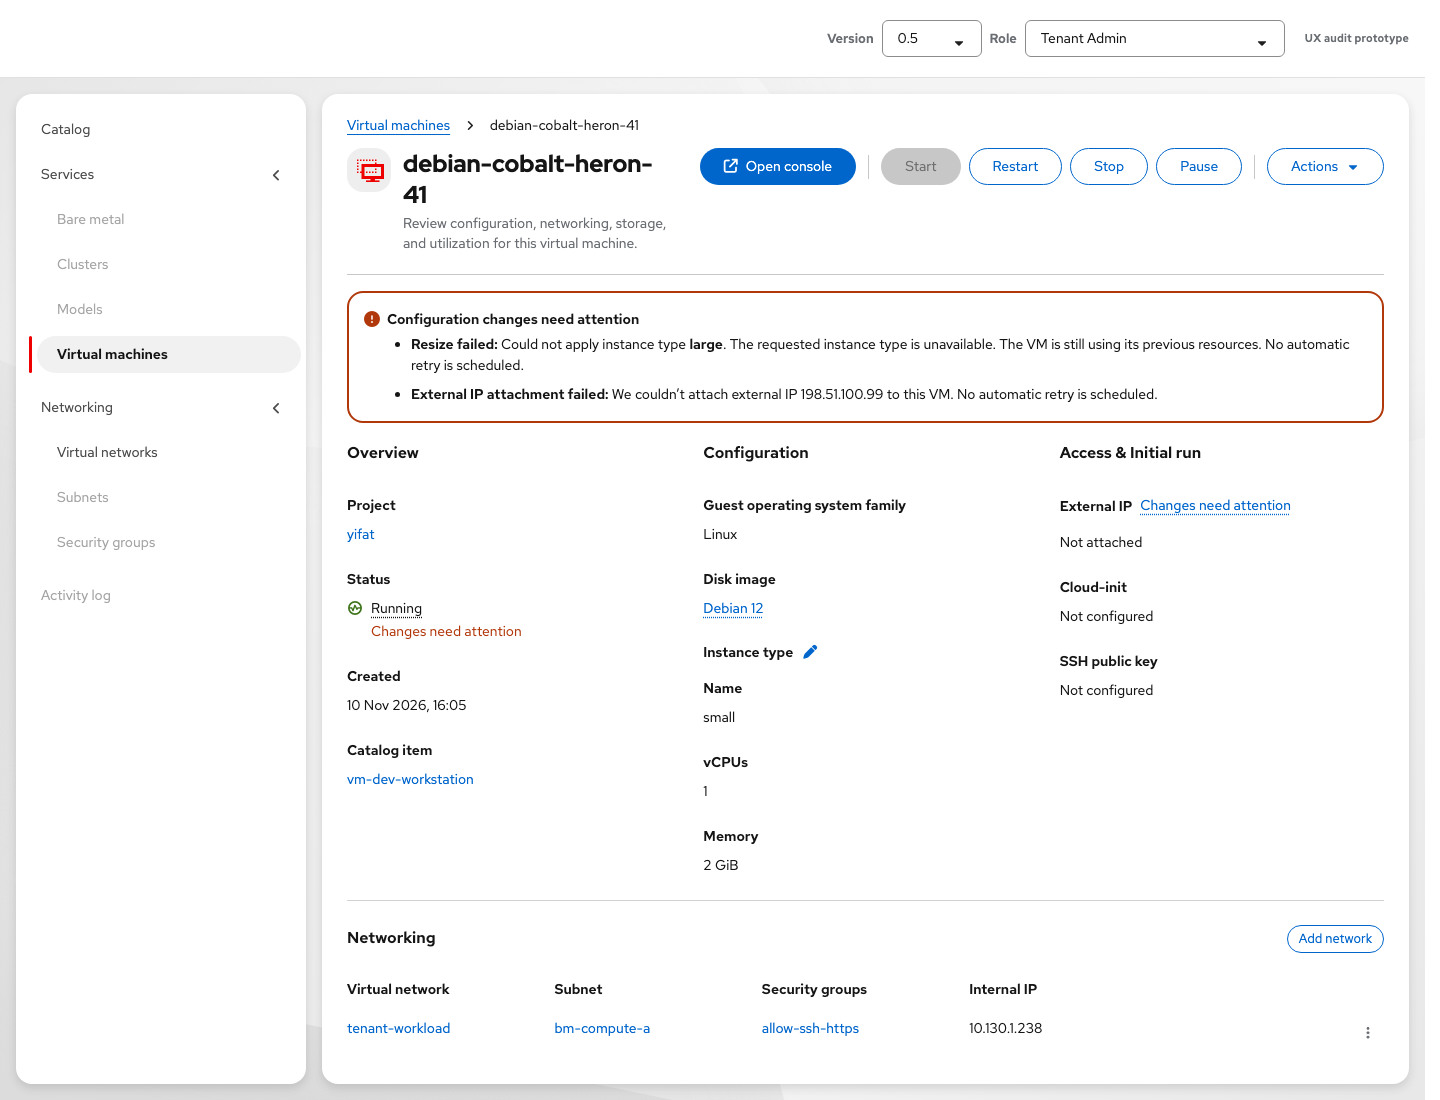
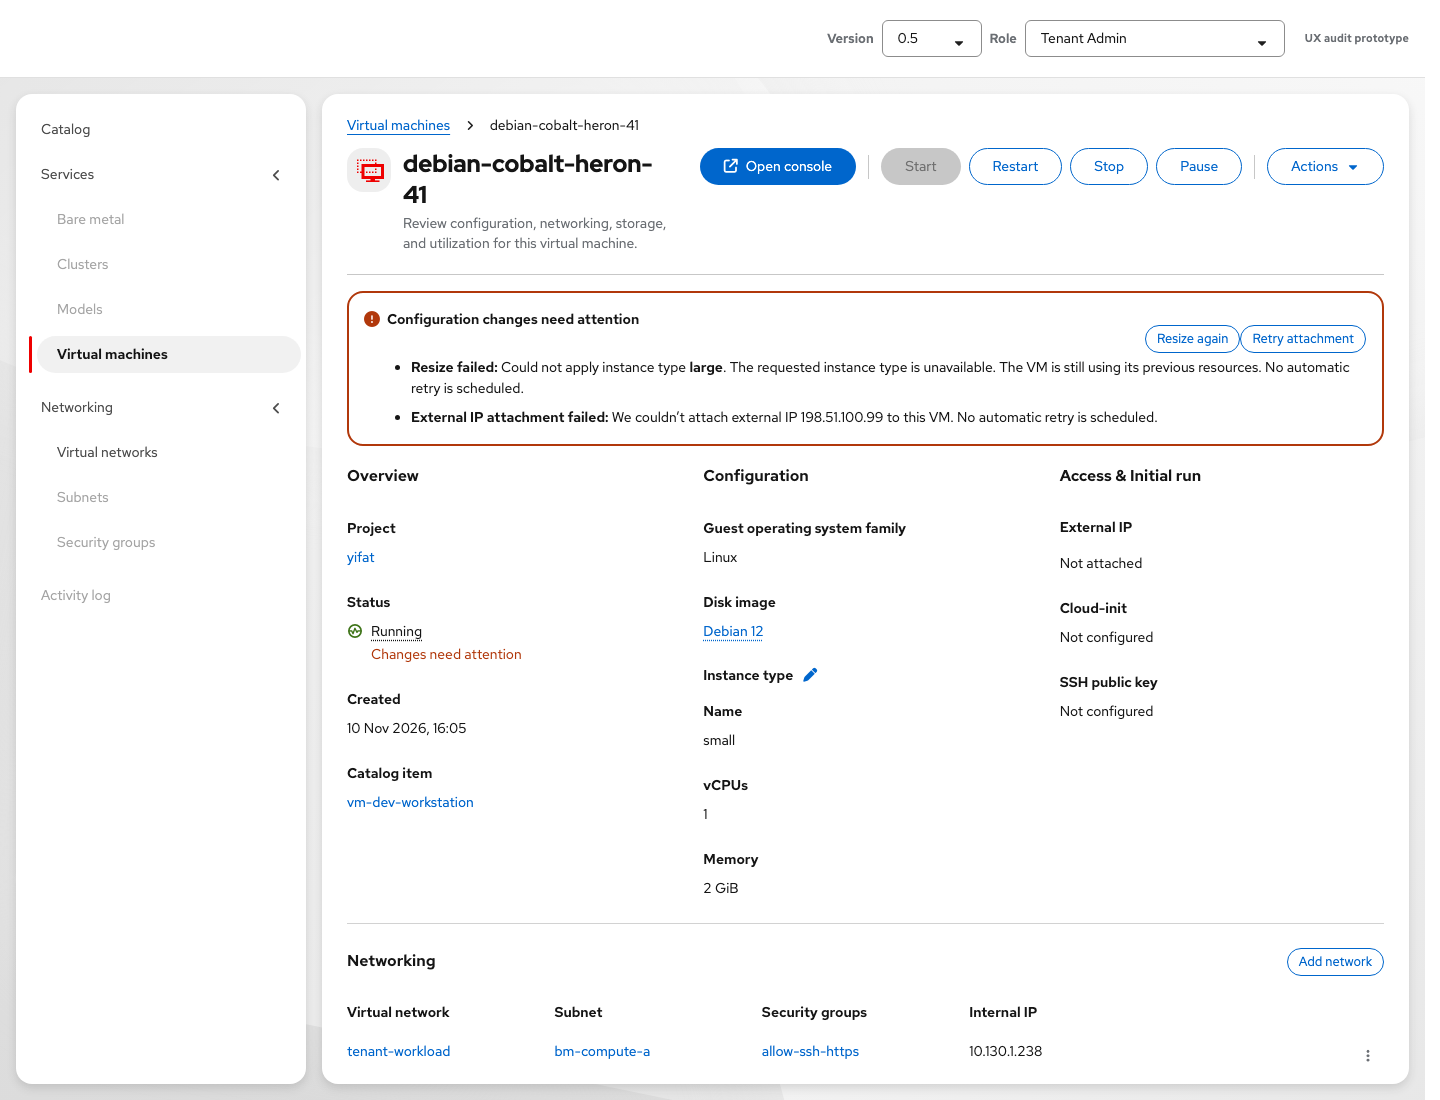
OSAC-7158: add recovery actions to failure alerts

diff --git a/apps/app-frontend/public/vmaas-ux-prototype.html b/apps/app-frontend/public/vmaas-ux-prototype.html
@@ -9450,7 +9450,7 @@
         const retry = vm.resizeFailure.nextRetryAt
           ? ` Another attempt is scheduled for ${escAttr(vm.resizeFailure.nextRetryAt)}.`
           : (vm.resizeFailure.retryPlanned === false ? ' No automatic retry is scheduled.' : '');
-        alerts.push({ title: 'Resize failed', description: `Could not apply instance type <strong>${target}</strong>. ${reason}${retry}` });
+        alerts.push({ title: 'Resize failed', description: `Could not apply instance type <strong>${target}</strong>. ${reason}${retry}`, action: '<button type="button" class="pf-v6-c-button pf-m-secondary pf-m-small" data-alert-resize-again>Resize again</button>' });
       }
       const ipStatus = vmExternalIpStatus(vm);
       if (ipStatus === 'failed' && !vmExternalIpRetryScheduled(vm)) {
@@ -9459,7 +9459,7 @@
         const retry = vm.externalIpNextRetryAt
           ? ` Another attempt is scheduled for ${escAttr(vm.externalIpNextRetryAt)}.`
           : (vm.externalIpRetryPlanned === false ? ' No automatic retry is scheduled.' : '');
-        alerts.push({ title: 'External IP attachment failed', description: `${reason}${retry}` });
+        alerts.push({ title: 'External IP attachment failed', description: `${reason}${retry}`, action: '<button type="button" class="pf-v6-c-button pf-m-secondary pf-m-small" data-alert-retry-attachment>Retry attachment</button>' });
       }
       if (alerts.length === 0) return '';
       const title = alerts.length === 1
@@ -9468,11 +9468,13 @@
       const description = alerts.length === 1
         ? alerts[0].description
         : `<ul class="pf-v6-c-list">${alerts.map(alert => `<li><strong>${alert.title}:</strong> ${alert.description}</li>`).join('')}</ul>`;
+      const actions = alerts.map(alert => alert.action || '').filter(Boolean).join('');
       return `
         <div class="pf-v6-c-alert pf-m-inline pf-m-danger vm-restart-required" role="alert">
           <div class="pf-v6-c-alert__icon"><i class="fa-solid fa-circle-exclamation" aria-hidden="true"></i></div>
           <h4 class="pf-v6-c-alert__title">${title}</h4>
           <div class="pf-v6-c-alert__description">${description}</div>
+          ${actions ? `<div class="pf-v6-u-mt-md vm-operation-alert__actions">${actions}</div>` : ''}
         </div>`;
     }
 
@@ -18127,6 +18129,12 @@
         openEditComputeModal();
       });
       root.querySelector('[data-resize-again]')?.addEventListener('click', openEditComputeModal);
+      root.querySelector('[data-alert-resize-again]')?.addEventListener('click', openEditComputeModal);
+      root.querySelector('[data-alert-retry-attachment]')?.addEventListener('click', () => {
+        const target = v.externalIpAttempted || v.externalIpPending;
+        if (!target) return;
+        beginAttachExternalIp(v, target, false);
+      });
       root.querySelectorAll('[data-overview-row-menu]').forEach(b => {
         b.addEventListener('click', e => {
           e.stopPropagation();
